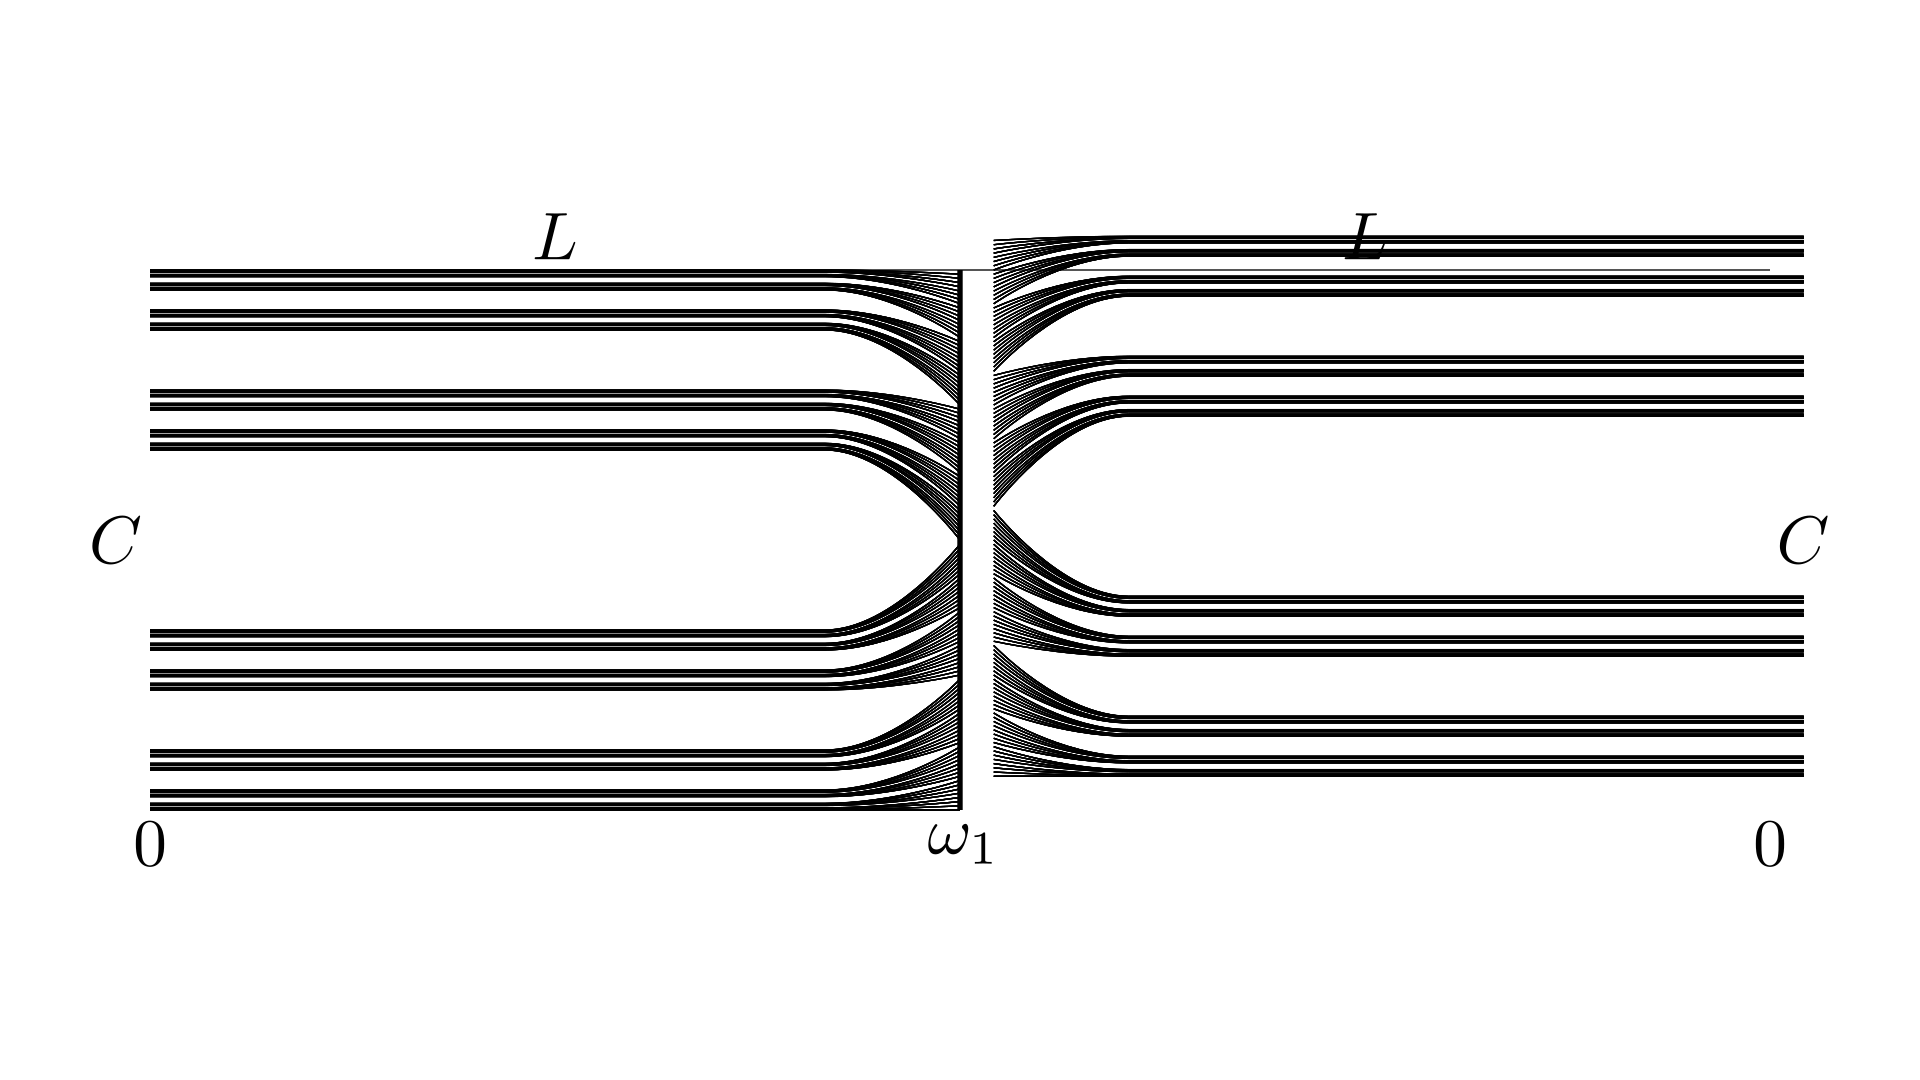
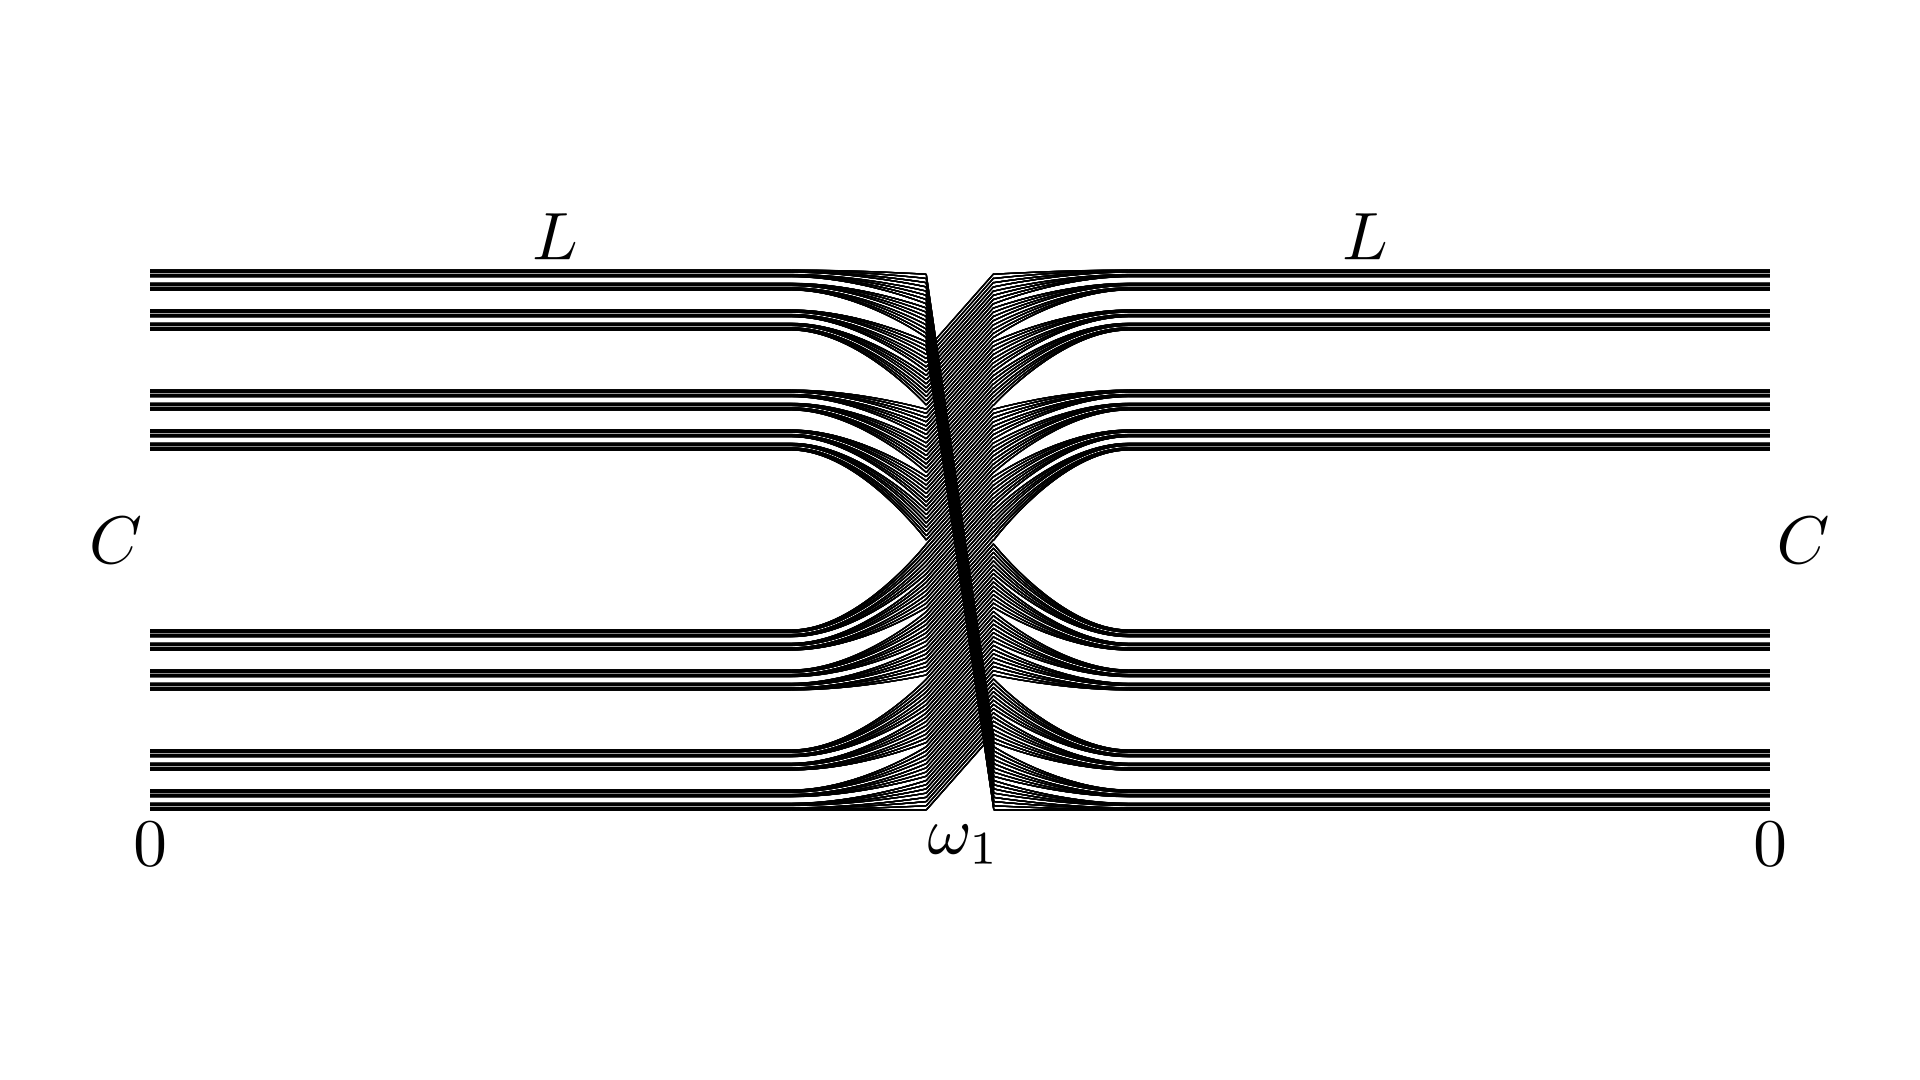
lokucievskiĭ-ruimte

Changed region(s): [[0.4062, 0.2139, 0.9375, 0.7639]]

diff --git a/BEP/Lokucievski.py b/BEP/Lokucievski.py
@@ -118,20 +118,24 @@ class Image04(Scene):
             if not "1" in ternary:
                 y = -2 + 4 * x
                 left_point = (-6, y, 0)
-                start_point = (-1, y, 0)
-                start_handle = (-.5, y, 0)
-                end_point = (0, -2 + 4 * self.binary(ternary), 0)
+                start_point = (-1.25, y, 0)
+                start_handle = (-.75, y, 0)
+                end_point = (-.25, -2 + 4 * self.binary(ternary), 0)
+                end_point_alt = (.25, -2 + 4 * self.binary(ternary), 0)
                 self.add(Line(left_point, start_point, color=BLACK, stroke_width=1))
                 self.add(CubicBezier(start_point, start_handle, end_point, end_point, color=BLACK, stroke_width=1))
 
                 right_part = VGroup(
-                    Line((6, y, 0), (1, y, 0), color=BLACK, stroke_width=1),
-                    CubicBezier((1, y, 0), (.5, y, 0), end_point, end_point, color=BLACK, stroke_width=1)
+                    Line((6, y, 0), (1.25, y, 0), color=BLACK, stroke_width=1),
+                    CubicBezier((1.25, y, 0), (.75, y, 0), end_point_alt, end_point_alt, color=BLACK, stroke_width=1)
                 )
-                self.add(right_part.shift(UR * .25))
+                self.add(right_part)
 
-        self.add(Line((-6, 2, 0), (6, 2, 0), color=BLACK, stroke_width=1))
-        self.add(Line((0, -2, 0), (0, 2, 0), color=BLACK))
+                self.add(Line(end_point, (.25, -2 + 4 * ((self.binary(ternary) + PI) % 1), 0), color=BLACK, stroke_width=1))
+
+        # self.add(Line((-6, 2, 0), (-.25, 2, 0), color=BLACK, stroke_width=1))
+        # self.add(Line((6, 2, 0), (.25, 2, 0), color=BLACK, stroke_width=1))
+        # self.add(Line((0, -2, 0), (0, 2, 0), color=BLACK))
 
         self.add(MathTex("0", color=BLACK).shift((-6, -2.25, 0)))
         self.add(MathTex("0", color=BLACK).shift((6, -2.25, 0)))
